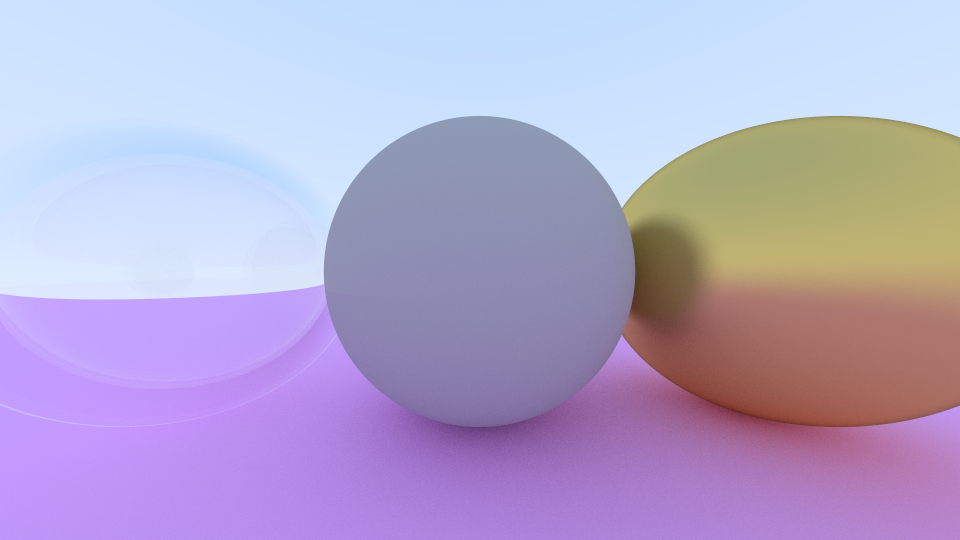
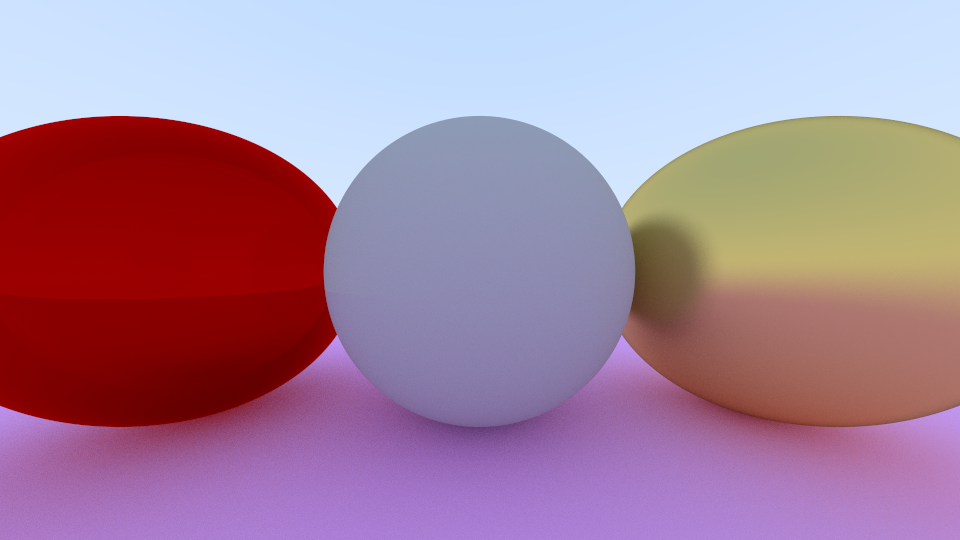
Add albedo to dielectric materials

Changed region(s): [[0.0, 0.2074, 0.4688, 1.0]]

diff --git a/src/materials.rs b/src/materials.rs
@@ -5,9 +5,17 @@ use rand::Rng;
 use ultraviolet::Vec3;
 
 pub enum Material {
-    Diffuse { albedo: Vec3 },
-    Metal { albedo: Vec3, fuzziness: f32 },
-    Dielectric { index_of_refraction: f32 },
+    Diffuse {
+        albedo: Vec3,
+    },
+    Metal {
+        albedo: Vec3,
+        fuzziness: f32,
+    },
+    Dielectric {
+        albedo: Vec3,
+        index_of_refraction: f32,
+    },
 }
 
 impl Material {
@@ -49,6 +57,7 @@ impl Material {
             }
 
             Material::Dielectric {
+                albedo,
                 index_of_refraction,
             } => {
                 let refraction_ratio = if hit_data.front_face {
@@ -74,7 +83,7 @@ impl Material {
                         origin: hit_data.point,
                         direction,
                     },
-                    attenuation: Vec3::new(1.0, 1.0, 1.0),
+                    attenuation: *albedo,
                 }
             }
         }

diff --git a/src/main.rs b/src/main.rs
@@ -42,6 +42,7 @@ fn main() {
                 center: Vec3::new(-1.0, 0.0, -1.0),
                 radius: 0.5,
                 material: Material::Dielectric {
+                    albedo: Vec3::new(0.7, 0.0, 0.0),
                     index_of_refraction: 1.5,
                 },
             },
@@ -49,6 +50,7 @@ fn main() {
                 center: Vec3::new(-1.0, 0.0, -1.0),
                 radius: -0.4,
                 material: Material::Dielectric {
+                    albedo: Vec3::one(),
                     index_of_refraction: 1.5,
                 },
             },
@@ -101,6 +103,7 @@ fn generate_scene() -> ObjectList {
                     }
                 } else {
                     Material::Dielectric {
+                        albedo: Vec3::one(),
                         index_of_refraction: 1.5,
                     }
                 };
